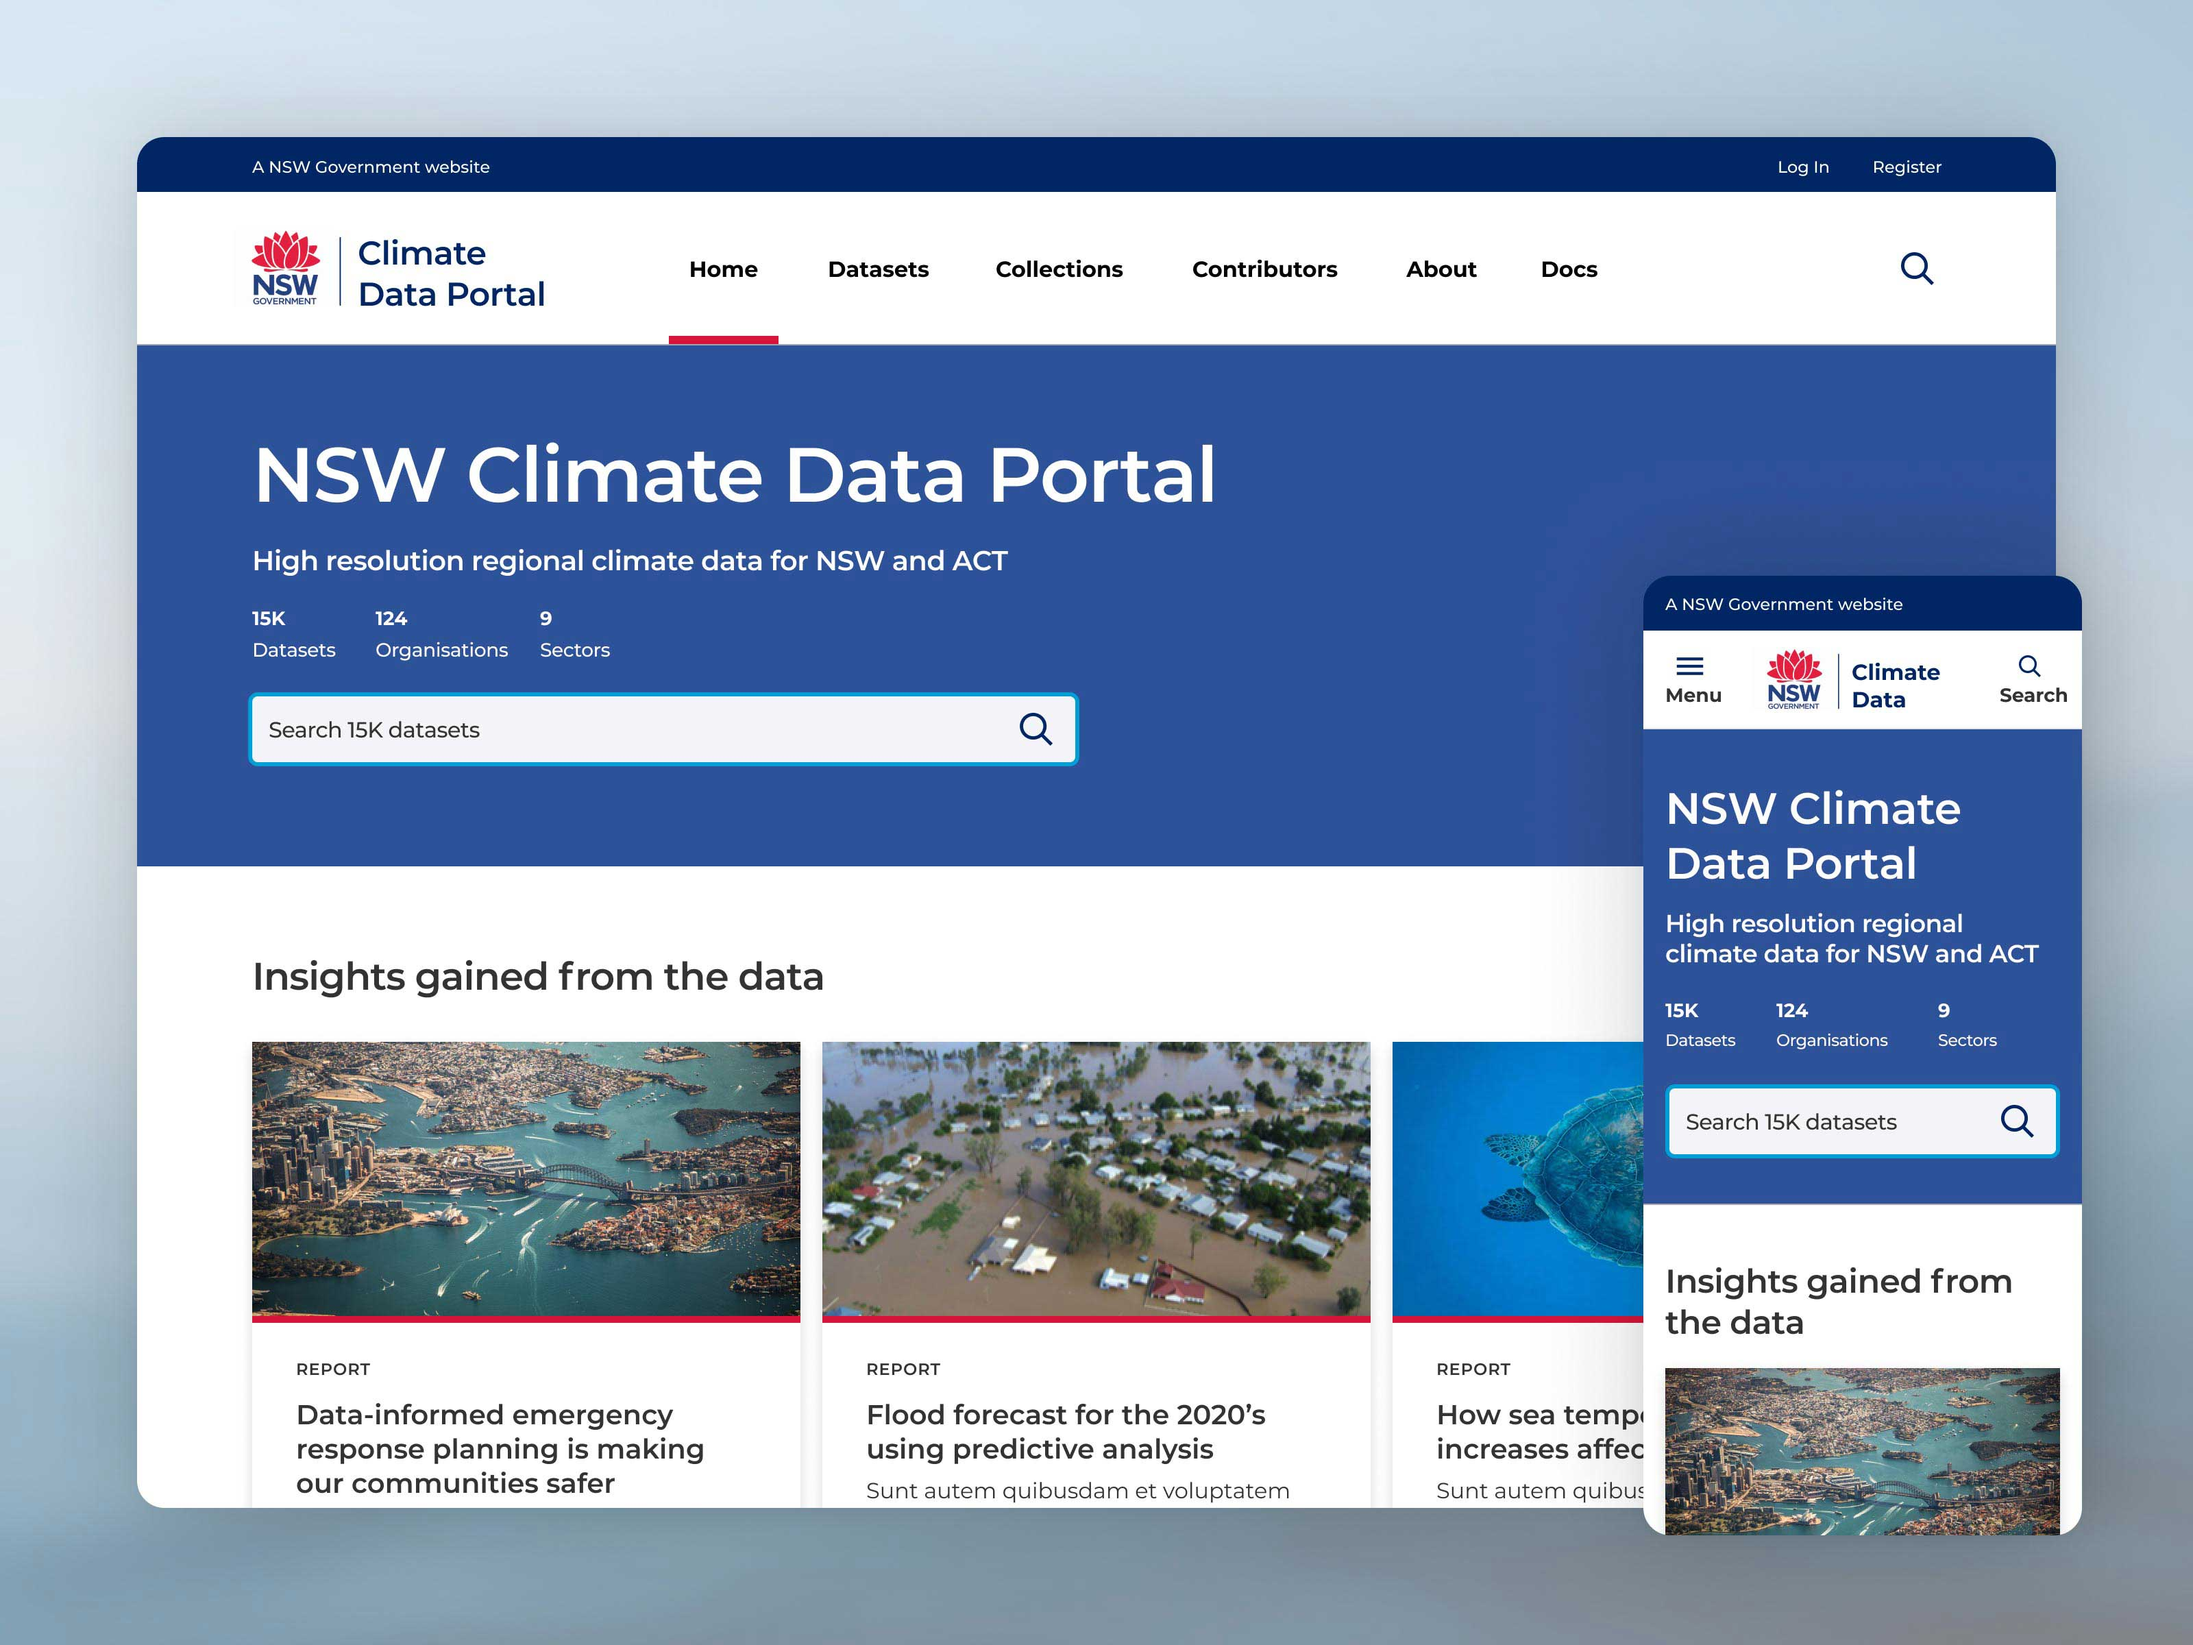
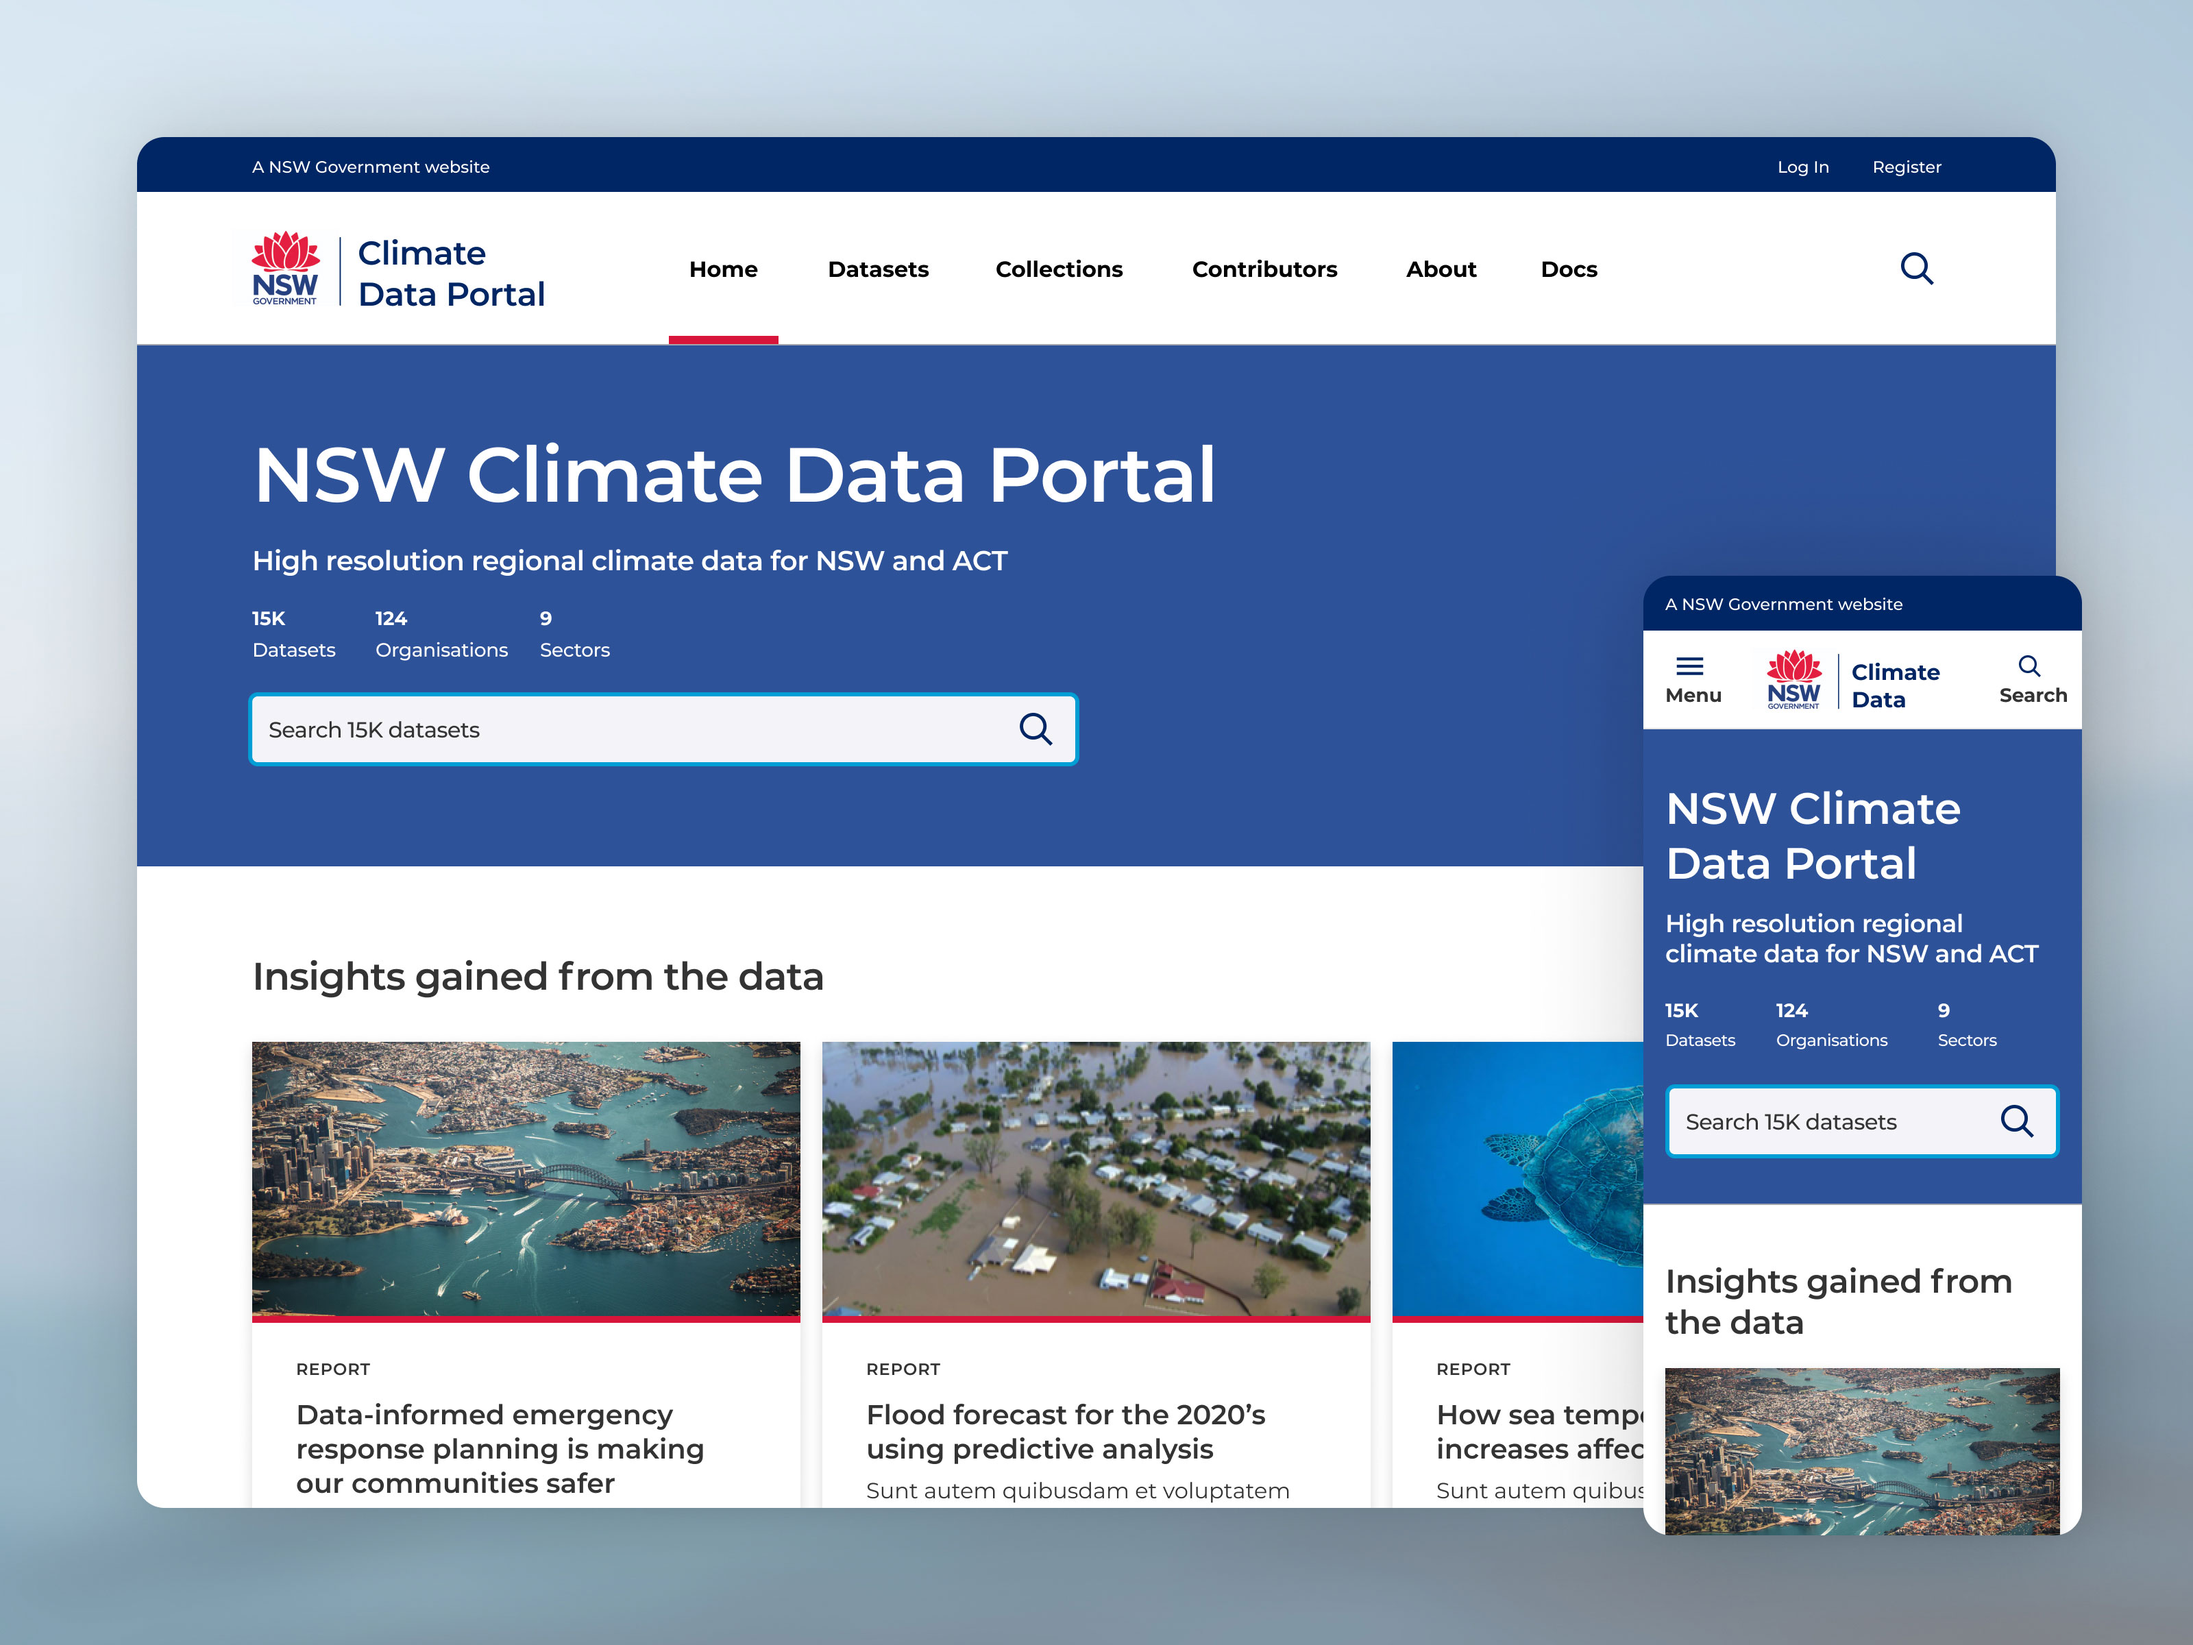
wip

diff --git a/_includes/portfolioCards/cdp.html b/_includes/portfolioCards/cdp.html
@@ -1,6 +1,6 @@
 <a class="card" href="/portfolio/cdp">
   <div class="cardMedia">
-    <img src="/assets/images/cdp-1.jpg" alt="" width="1600" height="900">
+    <img src="/assets/images/cdp-cover.jpg" alt="" width="1600" height="900">
   </div>
   <h3>NSW Climate Data Portal</h3>
   <ul class="cardTags">
